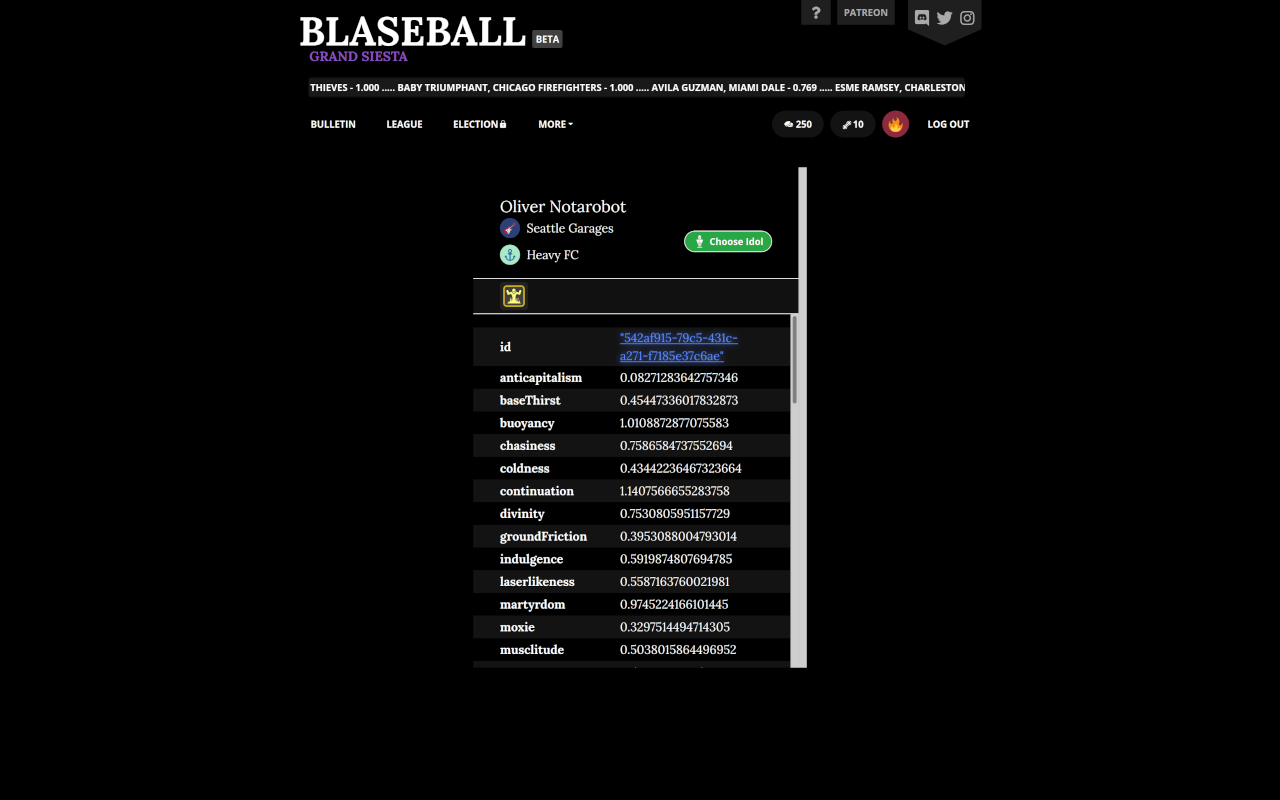
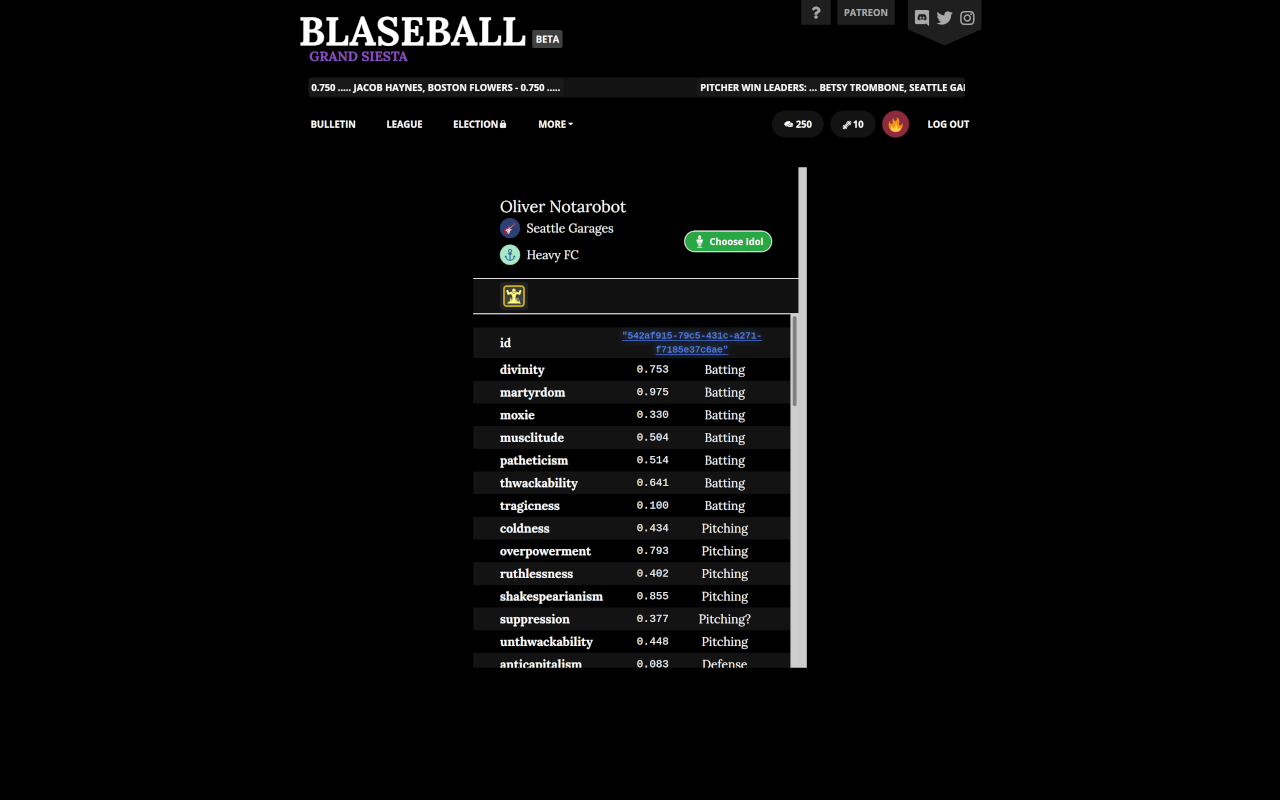
Show stat categories

Changed region(s): [[0.375, 0.4062, 0.5938, 0.8438], [0.25, 0.0938, 0.75, 0.125]]

diff --git a/lib/patches/playerStats.js b/lib/patches/playerStats.js
@@ -15,7 +15,6 @@ export default async function patch(stats) {
             const rawStars = document.createElement('div');
             rawStars.textContent = stars.toFixed(2);
             rawStars.title = stars.toString();
-            line.style.gridTemplateColumns = '180px auto min-content';
             line.append(rawStars);
         };
 
@@ -60,7 +59,7 @@ export default async function patch(stats) {
 
         stats.innerHTML = '';
 
-        function addKey(key, element) {
+        function addKey(key, category, element) {
             let line = document.createElement('div');
             line.classList.add('Player-Info-Line');
 
@@ -72,23 +71,78 @@ export default async function patch(stats) {
             if (!element) {
                 const value = player[key];
                 element = document.createElement('div');
-                element.textContent = JSON.stringify(value);
+                if (typeof value === 'number') {
+                    element.textContent = value.toFixed(3);
+                } else {
+                    element.textContent = JSON.stringify(value);
+                }
+                element.classList.add('Player-Info-Line-Raw');
+                if (key.endsWith('Id')) {
+                    element.classList.add('Player-Info-Line-Id');
+                }
             }
 
             line.append(element);
+
+            if (category) {
+                let categoryElem = document.createElement('div');
+                categoryElem.textContent = category;
+                categoryElem.classList.add('Player-Info-Line-Category');
+                line.append(categoryElem);
+                line.classList.add('Player-Info-Line-Triple');
+            }
+
             stats.append(line);
         }
 
         let idElem = document.createElement('div');
+        idElem.classList.add('Player-Info-Line-Raw');
+        idElem.classList.add('Player-Info-Line-Id');
         let idLink = document.createElement('a');
         idLink.href = `https://www.blaseball.com/database/players?ids=${player.id}`;
         idLink.textContent = JSON.stringify(player.id);
         idLink.classList.add('Player-Info-Line-Link');
         idElem.append(idLink);
-        addKey('id', idElem);
+        addKey('id', null, idElem);
 
-        for (const key in player) {
-            if (key === 'id' || !Object.prototype.hasOwnProperty.call(player, key)) continue;
+        const categories = [
+            ['divinity', 'Batting'],
+            ['martyrdom', 'Batting'],
+            ['moxie', 'Batting'],
+            ['musclitude', 'Batting'],
+            ['patheticism', 'Batting'],
+            ['thwackability', 'Batting'],
+            ['tragicness', 'Batting'],
+            ['coldness', 'Pitching'],
+            ['overpowerment', 'Pitching'],
+            ['ruthlessness', 'Pitching'],
+            ['shakespearianism', 'Pitching'],
+            ['suppression', 'Pitching?'],
+            ['unthwackability', 'Pitching'],
+            ['anticapitalism', 'Defense'],
+            ['chasiness', 'Defense'],
+            ['omniscience', 'Defense'],
+            ['tenaciousness', 'Defense'],
+            ['watchfulness', 'Defense'],
+            ['baseThirst', 'Baserunning'],
+            ['continuation', 'Baserunning'],
+            ['groundFriction', 'Baserunning'],
+            ['indulgence', 'Baserunning'],
+            ['laserlikeness', 'Baserunning'],
+            ['buoyancy', 'Vibes'],
+            ['cinnamon', 'Vibes'],
+            ['pressurization', 'Vibes'],
+        ];
+
+        for (const [key, category] of categories) {
+            if (!Object.prototype.hasOwnProperty.call(player, key)) continue;
+            addKey(key, category);
+        }
+
+        for (const key of Object.keys(player).sort()) {
+            if (key === 'id') continue;
+            if (!Object.prototype.hasOwnProperty.call(player, key)) continue;
+            if (categories.some(cat => key === cat[0])) continue;
             addKey(key);
         }
 

diff --git a/lib/style.css b/lib/style.css
@@ -25,3 +25,25 @@
         grid-template-columns: minmax(120px, min-content) auto;
     }
 }
+
+.Player-Info-Line-Raw {
+    font-family: var(--font-family-monospace);
+    font-size: 16px;
+    text-align: center;
+}
+
+div.Player-Info-Line-Id {
+    font-size: 14px;
+}
+
+div.Player-Info-Line {
+    grid-template-columns: 180px auto min-content;
+}
+
+div.Player-Info-Line-Triple {
+    grid-template-columns: 180px 5fr 6fr;
+}
+
+.Player-Info-Line-Category {
+    text-align: center;
+}
